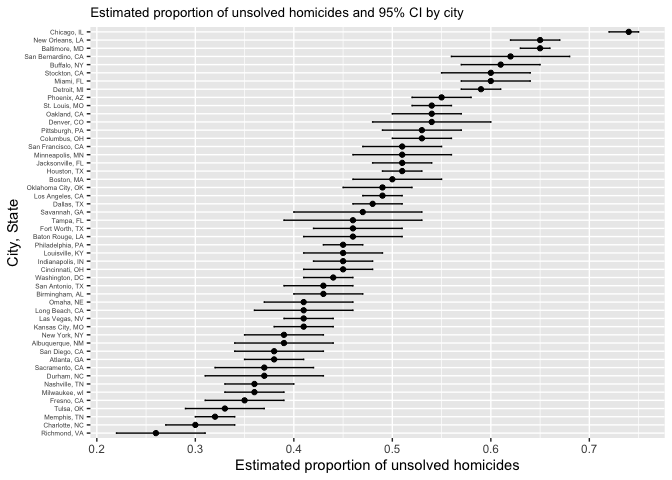
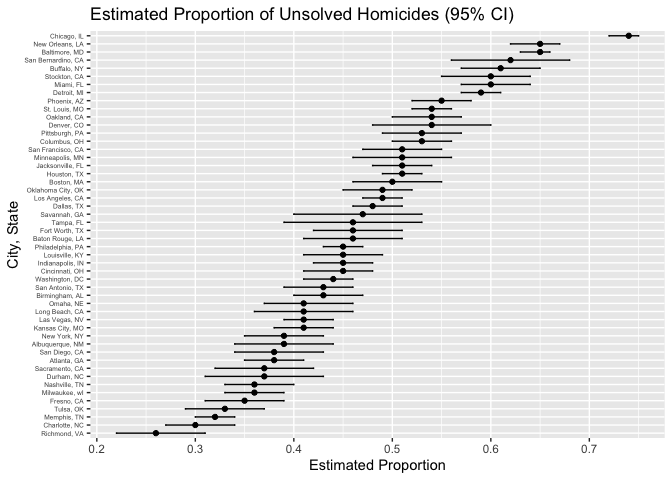
FINAL COMMIT!!!

Changed region(s): [[0.0, 0.0, 1.0, 0.9062], [0.3438, 0.9375, 0.7812, 1.0]]

diff --git a/p8105_hw5_cl4773.md b/p8105_hw5_cl4773.md
@@ -31,9 +31,10 @@ library(ggplot2)
 
 ``` r
 set.seed(1267)
+
 birthday_sim = function(group_size) {
-  birthdays = sample(1:365, group_size, replace = TRUE)
-  return(length(birthdays) != length(unique(birthdays)))
+  birthdays = sample(365, group_size, replace = TRUE)
+  any(duplicated(birthdays))
 }
 ```
 
@@ -43,17 +44,24 @@ Run Simulation
 
 ``` r
 group_sizes = 2:50
-n_sims = 10000
-shared_birthday_probs = map_dbl(group_sizes, ~mean(replicate(n_sims, birthday_sim(.x))))
+shared_birthday_probs = map_dbl(group_sizes, ~ mean(replicate(10000, birthday_sim(.x))))
 ```
 
 Create Plot
 
 ``` r
-shared_birthday_probs_df = tibble(group_size = group_sizes, shared_birthday_prob = shared_birthday_probs)
-
-shared_birthday_probs_df |> 
-  ggplot(aes(x = group_size, y = shared_birthday_prob)) + geom_point() + geom_line() + labs(title = "Probability of Sharing a Birthday by Group Size", x = "Group Size", y = "Probability of a Shared Birthday")
+tibble(
+  group_size = group_sizes,
+  prob = shared_birthday_probs
+) |>
+  ggplot(aes(group_size, prob)) +
+  geom_point() +
+  geom_line() +
+  labs(
+    title = "Probability of Sharing a Birthday by Group Size",
+    x = "Group Size",
+    y = "Probability"
+  )
 ```
 
 ![](p8105_hw5_cl4773_files/figure-gfm/unnamed-chunk-4-1.png)<!-- -->
@@ -71,19 +79,13 @@ rapidly, approaching near certainty as the group becomes larger.
 #### First set the following design elements: Fix 𝑛=30, 𝜎=5 and Set 𝜇=0.
 
 ``` r
-# Funcion that creates random samples, subtracting mean and p-value
-sim_mean_p = function(samp_size = 30, true_mean = 0, true_sd = 5, mu = 0) {
-  sim_df = 
-    tibble(
-      x = rnorm(samp_size, true_mean, true_sd)
-    )
-  s_mean = 
-    sim_df |> 
-    summarize(
-      samp_mean = mean(x),
-      p_val = t.test(x, mu = mu)|>broom::tidy()|>pull(p.value)|>round(3)
-    )
-  return(s_mean)
+sim_mean_p = function(n = 30, mean_true = 0, sd_true = 5, mu = 0) {
+  x = rnorm(n, mean_true, sd_true)
+
+  tibble(
+    samp_mean = mean(x),
+    p_val = t.test(x, mu = mu) |> broom::tidy() |> pull(p.value)
+  )
 }
 ```
 
@@ -93,30 +95,30 @@ sim_mean_p = function(samp_size = 30, true_mean = 0, true_sd = 5, mu = 0) {
 n = 5000
 mu_values = 0:6
 
-# Generate a list of tibbles for each value of mu
-sim_res_list = map(mu_values, function(mu) {
-  tibble(
-    iter = 1:n
-  ) |> 
-    mutate(samp_res = map(iter, ~sim_mean_p(samp_size = 30, true_mean = mu, true_sd = 5, mu = 0))) |> 
-    unnest(samp_res)
+combined_results = map_dfr(mu_values, function(mu) {
+  tibble(iter = 1:n) |>
+    mutate(
+      samp_res = map(iter, ~ sim_mean_p(n = 30, mean_true = mu, sd_true = 5, mu = 0))
+    ) |>
+    unnest(samp_res) |>
+    mutate(mu = mu)
 })
-
-# Name the list based on mu values
-names(sim_res_list) = paste0("mu_", mu_values)
-
-# Combine all results into a single tibble with an additional column for `mu`
-combined_results = bind_rows(
-  map2(sim_res_list, mu_values, ~mutate(.x, mu = .y))
-)
 ```
 
 #### Make a plot showing the proportion of times the null was rejected (the power of the test) on the y axis and the true value of mu on the x axis. Describe the association between effect size and power.
 
 ``` r
-combined_results |> group_by(mu) |>
-  summarize(power = mean(p_val < 0.05)) |> 
-  ggplot(aes(x = mu, y = power)) + geom_point() + geom_line() + labs(title = "Power of Test", x = "True Value of Mu", y = "Proportion of Times the Null was Rejected")
+combined_results |>
+  group_by(mu) |>
+  summarize(power = mean(p_val < 0.05)) |>
+  ggplot(aes(mu, power)) +
+  geom_point() +
+  geom_line() +
+  labs(
+    title = "Power of Test",
+    x = "True Value of Mu",
+    y = "Proportion Rejected"
+  )
 ```
 
 ![](p8105_hw5_cl4773_files/figure-gfm/unnamed-chunk-7-1.png)<!-- -->
@@ -134,11 +136,24 @@ detect a difference and reject the null hypothesis.
 #### Overlay the second plot on the first plot
 
 ``` r
-combined_results |> group_by(mu) |>
-  summarize(est_mu = mean(samp_mean)) |> 
-  ggplot(aes(x = mu, y = est_mu)) + geom_point() + geom_line() + labs(title = "Average estimate of mu and average estimate of the null-rejected", x = "True value of mu", y = "Average estimate of mu") + 
-  geom_line(data = combined_results |> filter(p_val < 0.05) |> group_by(mu) |>
-               summarize(est_mu = mean(samp_mean)), aes(x = mu, y = est_mu), color = "magenta")
+avg_all = combined_results |>
+  group_by(mu) |>
+  summarize(est_mu = mean(samp_mean))
+
+avg_rej = combined_results |>
+  filter(p_val < 0.05) |>
+  group_by(mu) |>
+  summarize(est_mu = mean(samp_mean))
+
+ggplot(avg_all, aes(mu, est_mu)) +
+  geom_point() +
+  geom_line() +
+  geom_line(data = avg_rej, aes(mu, est_mu), color = "magenta") +
+  labs(
+    title = "Average Estimate of μ",
+    x = "True μ",
+    y = "Mean Estimated μ"
+  )
 ```
 
 ![](p8105_hw5_cl4773_files/figure-gfm/unnamed-chunk-8-1.png)<!-- -->
@@ -178,17 +193,20 @@ consistency with the surrounding uid entries. The state value was
 therefore corrected to “OK” in the dataset.
 
 ``` r
-# Create a city_state variable (e.g. “Baltimore, MD”) and then summarize within cities to obtain the total number of homicides and the number of unsolved homicides (those for which the disposition is “Closed without arrest” or “Open/No arrest”).
-homicide_data = homicide_data |>mutate(state = ifelse(uid == "Tul-000769", "OK", state))
+homicide_data = homicide_data |> 
+  mutate(state = if_else(uid == "Tul-000769", "OK", state))
 ```
 
 #### Create a city_state variable (e.g. “Baltimore, MD”) and then summarize within cities to obtain the total number of homicides and the number of unsolved homicides (those for which the disposition is “Closed without arrest” or “Open/No arrest”).
 
 ``` r
-homicide_data_city = homicide_data |> 
-  mutate(city_state = str_c(city, ", ", state)) |> 
-  group_by(city_state) |> 
-  summarize(total_homicides = n(), unsolved_homicides = sum(disposition %in% c("Closed without arrest", "Open/No arrest")))
+homicide_data_city = homicide_data |>
+  mutate(city_state = paste(city, state, sep = ", ")) |>
+  group_by(city_state) |>
+  summarize(
+    total_homicides = n(),
+    unsolved_homicides = sum(disposition %in% c("Closed without arrest", "Open/No arrest"))
+  )
 ```
 
 For the city of Baltimore, MD, use the prop.test function to estimate
@@ -198,9 +216,15 @@ the estimated proportion and confidence intervals from the resulting
 tidy dataframe.
 
 ``` r
-baltimore_data = homicide_data_city |> filter(city_state == "Baltimore, MD")
-baltimore_prop_test = prop.test(baltimore_data|>pull(unsolved_homicides), baltimore_data|>pull(total_homicides))
-baltimore_prop_test_tidy = baltimore_prop_test |> broom::tidy()
+baltimore_data = homicide_data_city |>
+  filter(city_state == "Baltimore, MD")
+
+baltimore_prop_test = prop.test(
+  baltimore_data$unsolved_homicides,
+  baltimore_data$total_homicides
+)
+
+baltimore_prop_test_tidy = broom::tidy(baltimore_prop_test)
 ```
 
 The estimated proportion of unsolved homicides in Baltimore, MD is 0.65.
@@ -208,24 +232,34 @@ The estimated proportion of unsolved homicides in Baltimore, MD is 0.65.
 #### Now run prop.test for each of the cities in your dataset, and extract both the proportion of unsolved homicides and the confidence interval for each. Do this within a “tidy” pipeline, making use of purrr::map, purrr::map2, list columns and unnest as necessary to create a tidy dataframe with estimated proportions and CIs for each city.
 
 ``` r
-homicide_data_city_prop_test = homicide_data_city |> 
-  mutate(prop_test = map2(unsolved_homicides, total_homicides, ~prop.test(.x, .y))) |> 
-  mutate(prop_test_tidy = map(prop_test, broom::tidy)) |> 
-  unnest(prop_test_tidy) |> 
-  select(c("city_state","estimate", "conf.low", "conf.high")) |> 
-  mutate(estimate = round(estimate, 2), conf.low = round(conf.low, 2), conf.high = round(conf.high, 2))
+homicide_data_city_prop_test = homicide_data_city |>
+  mutate(
+    prop_test = map2(unsolved_homicides, total_homicides, prop.test),
+    prop_test = map(prop_test, broom::tidy)
+  ) |>
+  unnest(prop_test) |>
+  transmute(
+    city_state,
+    estimate = round(estimate, 2),
+    conf.low = round(conf.low, 2),
+    conf.high = round(conf.high, 2)
+  )
 ```
 
 #### Create a plot that shows the estimates and CIs for each city – check out geom_errorbar for a way to add error bars based on the upper and lower limits. Organize cities according to the proportion of unsolved homicides.
 
 ``` r
-homicide_data_city_prop_test |> 
-  ggplot(aes(x = reorder(city_state, estimate), y = estimate, ymin = conf.low, ymax = conf.high)) + 
-  geom_point() + 
-  geom_errorbar(width = 0.2) + 
-  coord_flip() + 
-  labs(title = "Estimated proportion of unsolved homicides and 95% CI by city", x = "City, State", y = "Estimated proportion of unsolved homicides") + 
-  theme(axis.text.y = element_text(size = 5), plot.title = element_text(size = 10))
+homicide_data_city_prop_test |>
+  ggplot(aes(reorder(city_state, estimate), estimate)) +
+  geom_point() +
+  geom_errorbar(aes(ymin = conf.low, ymax = conf.high), width = 0.2) +
+  coord_flip() +
+  labs(
+    title = "Estimated Proportion of Unsolved Homicides (95% CI)",
+    x = "City, State",
+    y = "Estimated Proportion"
+  ) +
+  theme(axis.text.y = element_text(size = 5))
 ```
 
 ![](p8105_hw5_cl4773_files/figure-gfm/unnamed-chunk-14-1.png)<!-- -->
